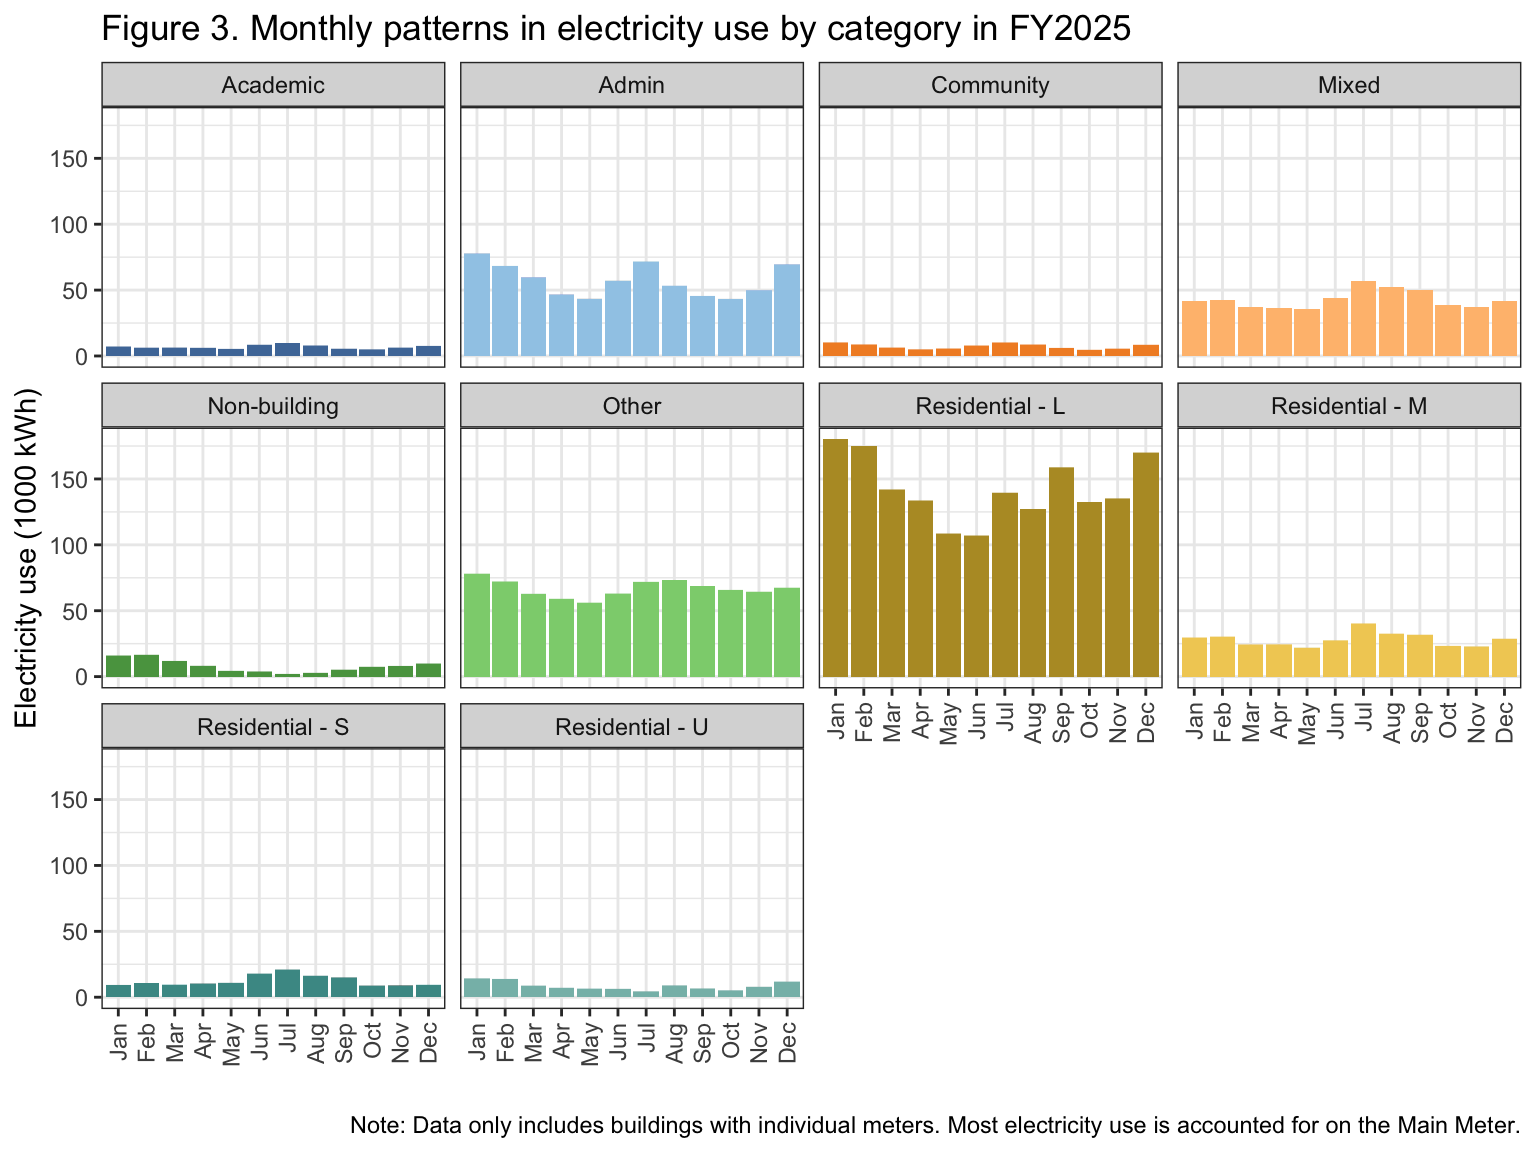
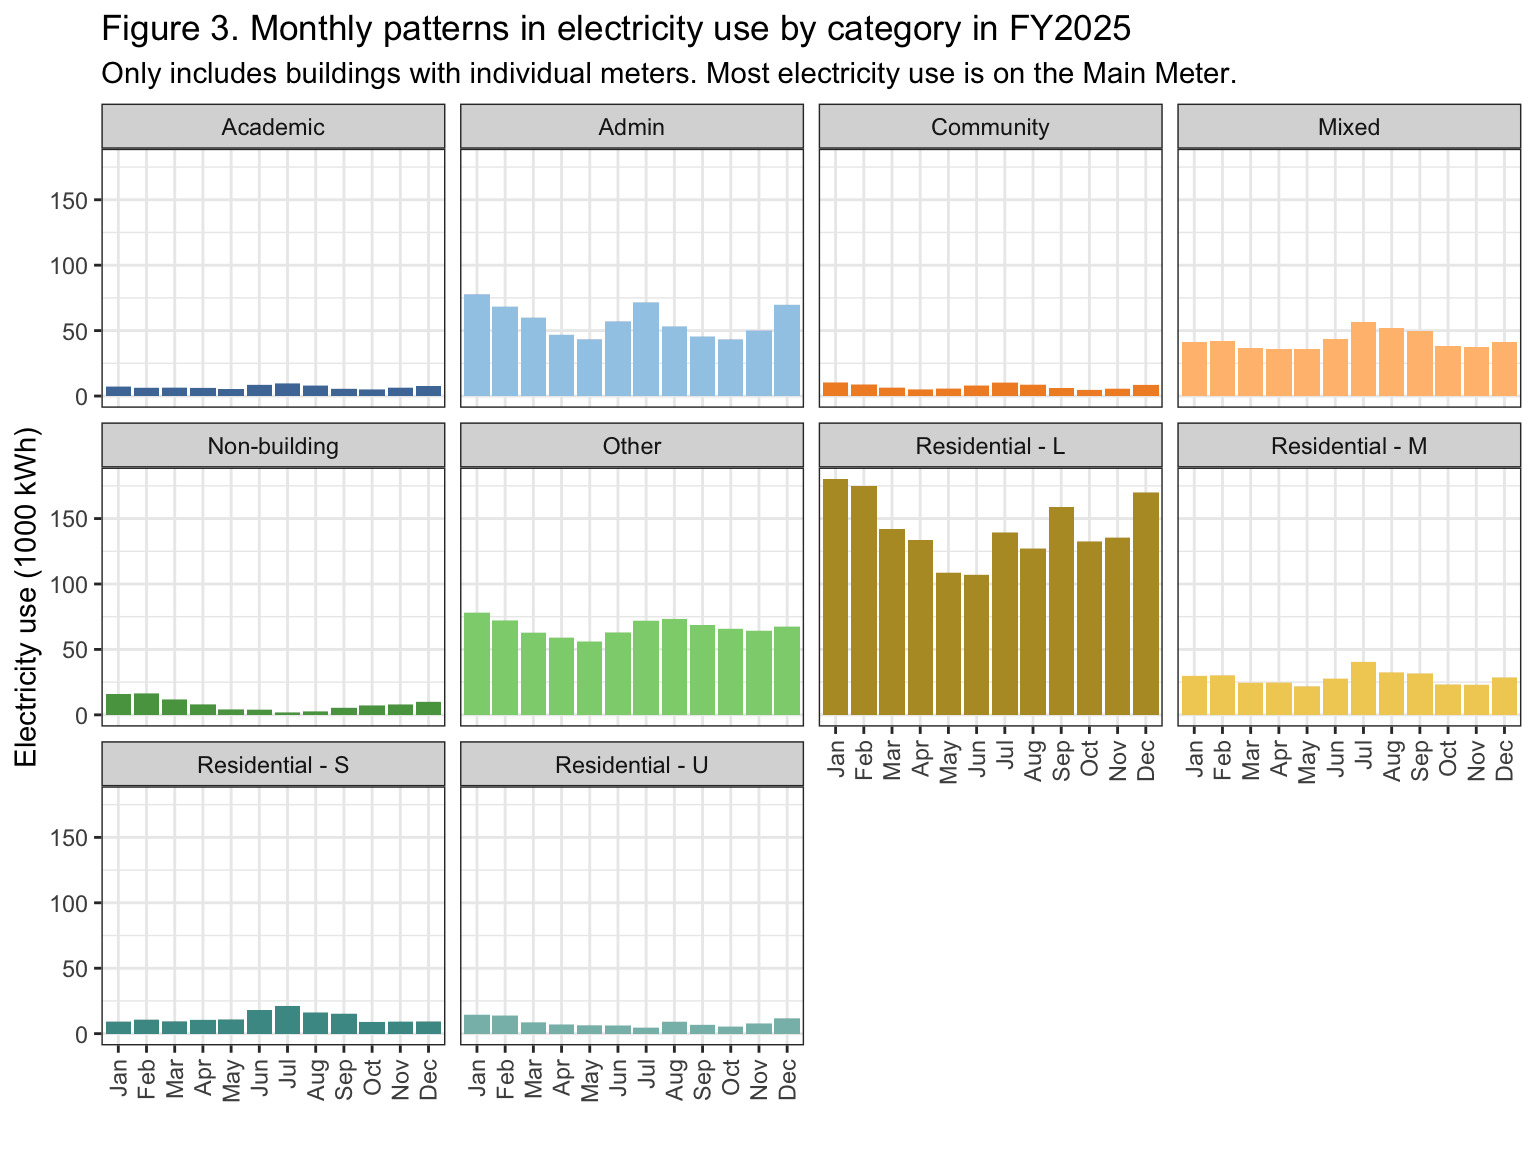
small improvements to graphs

diff --git a/docs/data_wrangling_final.html b/docs/data_wrangling_final.html
@@ -11,7 +11,7 @@
 
 <meta name="author" content="Maggie Douglas" />
 
-<meta name="date" content="2026-03-17" />
+<meta name="date" content="2026-03-18" />
 
 <title>Data wrangling for Class Project</title>
 
@@ -395,7 +395,7 @@ div.tocify {
 
 <h1 class="title toc-ignore">Data wrangling for Class Project</h1>
 <h4 class="author">Maggie Douglas</h4>
-<h4 class="date">03/17/26</h4>
+<h4 class="date">03/18/26</h4>
 
 </div>
 
@@ -424,7 +424,7 @@ aria-hidden="true"></span> </a>
 <div class="tab-content">
 <div id="summary" class="tab-pane fade in active">
 <p>
-<strong>Last updated:</strong> 2026-03-17
+<strong>Last updated:</strong> 2026-03-18
 </p>
 <p>
 <strong>Checks:</strong> <span
@@ -558,15 +558,15 @@ project makes it easier to run your code on other machines.</p>
 <div class="panel panel-default">
 <div class="panel-heading">
 <p class="panel-title">
-<a data-toggle="collapse" data-parent="#workflowr-checks" href="#strongRepositoryversionstrongahrefhttpsgithubcommaggiedouglasdickinsonpowertree012f9a199bf668fdb338eabe99a4c6d63ade705dtargetblank012f9a1a">
+<a data-toggle="collapse" data-parent="#workflowr-checks" href="#strongRepositoryversionstrongahrefhttpsgithubcommaggiedouglasdickinsonpowertreed4f7e6b74691e82da840af051b2003a7f646104dtargetblankd4f7e6ba">
 <span class="glyphicon glyphicon-ok text-success"
 aria-hidden="true"></span> <strong>Repository version:</strong>
-<a href="https://github.com/maggiedouglas/dickinson_power/tree/012f9a199bf668fdb338eabe99a4c6d63ade705d" target="_blank">012f9a1</a>
+<a href="https://github.com/maggiedouglas/dickinson_power/tree/d4f7e6b74691e82da840af051b2003a7f646104d" target="_blank">d4f7e6b</a>
 </a>
 </p>
 </div>
 <div
[2 lines of base64/hex data omitted]
 class="panel-collapse collapse">
 <div class="panel-body">
 <p>
@@ -576,7 +576,7 @@ reproducibility.
 </p>
 <p>
 The results in this page were generated with repository version
-<a href="https://github.com/maggiedouglas/dickinson_power/tree/012f9a199bf668fdb338eabe99a4c6d63ade705d" target="_blank">012f9a1</a>.
+<a href="https://github.com/maggiedouglas/dickinson_power/tree/d4f7e6b74691e82da840af051b2003a7f646104d" target="_blank">d4f7e6b</a>.
 See the <em>Past versions</em> tab to see a history of the changes made
 to the R Markdown and HTML files.
 </p>
@@ -608,11 +608,13 @@ Ignored files:
     Ignored:    output/daily_kwh.csv
     Ignored:    output/kwh_academic_2026-03-16.csv
     Ignored:    output/kwh_academic_2026-03-17.csv
+    Ignored:    output/kwh_academic_2026-03-18.csv
     Ignored:    output/kwh_annual.csv
     Ignored:    output/kwh_annual_2026-03-04.csv
     Ignored:    output/kwh_annual_2026-03-12.csv
     Ignored:    output/kwh_annual_2026-03-16.csv
     Ignored:    output/kwh_annual_2026-03-17.csv
+    Ignored:    output/kwh_annual_2026-03-18.csv
     Ignored:    output/kwh_annual_20260225.csv
     Ignored:    output/kwh_annual_20260226.csv
     Ignored:    output/kwh_daily.csv
@@ -620,18 +622,15 @@ Ignored files:
     Ignored:    output/kwh_daily_2026-03-12.csv
     Ignored:    output/kwh_daily_2026-03-16.csv
     Ignored:    output/kwh_daily_2026-03-17.csv
+    Ignored:    output/kwh_daily_2026-03-18.csv
     Ignored:    output/kwh_daily_20260225.csv
     Ignored:    output/kwh_daily_20260226.csv
     Ignored:    output/kwh_main_annual.csv
     Ignored:    output/kwh_main_daily.csv
 
-Untracked files:
-    Untracked:  keys/fy25_building_list_updated.xlsx
-
 Unstaged changes:
     Modified:   analysis/campus_summary.Rmd
     Modified:   analysis/data_wrangling_final.Rmd
-    Modified:   keys/fy25_building_list_updated.csv
 
 </code></pre>
 <p>
@@ -676,6 +675,40 @@ Message
 </tr>
 </thead>
 <tbody>
+<tr>
+<td>
+Rmd
+</td>
+<td>
+<a href="https://github.com/maggiedouglas/dickinson_power/blob/bd65297524933e7448377a79a4cd9915ca5c1aa4/analysis/data_wrangling_final.Rmd" target="_blank">bd65297</a>
+</td>
+<td>
+maggiedouglas
+</td>
+<td>
+2026-03-17
+</td>
+<td>
+small adjustments to data prep and campus summary
+</td>
+</tr>
+<tr>
+<td>
+html
+</td>
+<td>
+<a href="https://rawcdn.githack.com/maggiedouglas/dickinson_power/bd65297524933e7448377a79a4cd9915ca5c1aa4/docs/data_wrangling_final.html" target="_blank">bd65297</a>
+</td>
+<td>
+maggiedouglas
+</td>
+<td>
+2026-03-17
+</td>
+<td>
+small adjustments to data prep and campus summary
+</td>
+</tr>
 <tr>
 <td>
 Rmd
@@ -1727,6 +1760,17 @@ Date
 <tbody>
 <tr>
 <td>
+<a href="https://github.com/maggiedouglas/dickinson_power/blob/bd65297524933e7448377a79a4cd9915ca5c1aa4/docs/figure/data_wrangling_final.Rmd/graph meter-1.png" target="_blank">bd65297</a>
+</td>
+<td>
+maggiedouglas
+</td>
+<td>
+2026-03-17
+</td>
+</tr>
+<tr>
+<td>
 <a href="https://github.com/maggiedouglas/dickinson_power/blob/bfe7b73e8b29bef0d4013574a7baa3178652fb35/docs/figure/data_wrangling_final.Rmd/graph meter-1.png" target="_blank">bfe7b73</a>
 </td>
 <td>
@@ -1860,6 +1904,17 @@ Date
 <tbody>
 <tr>
 <td>
+<a href="https://github.com/maggiedouglas/dickinson_power/blob/bd65297524933e7448377a79a4cd9915ca5c1aa4/docs/figure/data_wrangling_final.Rmd/graph meter-2.png" target="_blank">bd65297</a>
+</td>
+<td>
+maggiedouglas
+</td>
+<td>
+2026-03-17
+</td>
+</tr>
+<tr>
+<td>
 <a href="https://github.com/maggiedouglas/dickinson_power/blob/bfe7b73e8b29bef0d4013574a7baa3178652fb35/docs/figure/data_wrangling_final.Rmd/graph meter-2.png" target="_blank">bfe7b73</a>
 </td>
 <td>
@@ -1924,7 +1979,7 @@ ggplot(daily_test,
   theme_bw() +
   theme(legend.position = &quot;none&quot;) +
   labs(x = &quot;&quot;, y = &quot;Electricity Intensity (kWh/sqft)&quot;, 
-       title = &quot;&quot;)</code></pre>
+       title = &quot;Figure 2. Electricity intensity by aggregate meter in FY25. &quot;)</code></pre>
 <p><img src="figure/data_wrangling_final.Rmd/box_practice-1.png" alt="" width="672" style="display: block; margin: auto;" /></p>
 <p>
 <button type="button" class="btn btn-default btn-xs btn-workflowr btn-workflowr-fig" data-toggle="collapse" data-target="#fig-box_practice-1">
@@ -1948,6 +2003,17 @@ Date
 </tr>
 </thead>
 <tbody>
+<tr>
+<td>
+<a href="https://github.com/maggiedouglas/dickinson_power/blob/bd65297524933e7448377a79a4cd9915ca5c1aa4/docs/figure/data_wrangling_final.Rmd/box_practice-1.png" target="_blank">bd65297</a>
+</td>
+<td>
+maggiedouglas
+</td>
+<td>
+2026-03-17
+</td>
+</tr>
 <tr>
 <td>
 <a href="https://github.com/maggiedouglas/dickinson_power/blob/012f9a199bf668fdb338eabe99a4c6d63ade705d/docs/figure/data_wrangling_final.Rmd/box_practice-1.png" target="_blank">012f9a1</a>

diff --git a/docs/campus_summary.html b/docs/campus_summary.html
@@ -643,6 +643,17 @@ Date
 <tbody>
 <tr>
 <td>
+<a href="https://github.com/maggiedouglas/dickinson_power/blob/d4f7e6b74691e82da840af051b2003a7f646104d/docs/figure/campus_summary.Rmd/stacked bar-1.png" target="_blank">d4f7e6b</a>
+</td>
+<td>
+maggiedouglas
+</td>
+<td>
+2026-03-18
+</td>
+</tr>
+<tr>
+<td>
 <a href="https://github.com/maggiedouglas/dickinson_power/blob/bd65297524933e7448377a79a4cd9915ca5c1aa4/docs/figure/campus_summary.Rmd/stacked bar-1.png" target="_blank">bd65297</a>
 </td>
 <td>
@@ -725,6 +736,17 @@ Date
 <tbody>
 <tr>
 <td>
+<a href="https://github.com/maggiedouglas/dickinson_power/blob/d4f7e6b74691e82da840af051b2003a7f646104d/docs/figure/campus_summary.Rmd/faceted_agg-1.png" target="_blank">d4f7e6b</a>
+</td>
+<td>
+maggiedouglas
+</td>
+<td>
+2026-03-18
+</td>
+</tr>
+<tr>
+<td>
 <a href="https://github.com/maggiedouglas/dickinson_power/blob/bd65297524933e7448377a79a4cd9915ca5c1aa4/docs/figure/campus_summary.Rmd/faceted_agg-1.png" target="_blank">bd65297</a>
 </td>
 <td>
@@ -748,7 +770,7 @@ maggiedouglas
   theme(axis.text.x = element_text(angle = 90, vjust = 0.5, hjust = 1)) +
   labs(x = &quot;&quot;, y = &quot;Electricity use (1000 kWh)&quot;, fill = &quot;&quot;,
        title = &quot;Figure 3. Monthly patterns in electricity use by category in FY2025&quot;,
-       caption = &quot;Note: Data only includes buildings with individual meters. Most electricity use is accounted for on the Main Meter.&quot;)</code></pre>
+       subtitle = &quot;Only includes buildings with individual meters. Most electricity use is on the Main Meter.&quot;)</code></pre>
 <p><img src="figure/campus_summary.Rmd/faceted-1.png" alt="" width="768" style="display: block; margin: auto;" /></p>
 <p>
 <button type="button" class="btn btn-default btn-xs btn-workflowr btn-workflowr-fig" data-toggle="collapse" data-target="#fig-faceted-1">
@@ -772,6 +794,17 @@ Date
 </tr>
 </thead>
 <tbody>
+<tr>
+<td>
+<a href="https://github.com/maggiedouglas/dickinson_power/blob/d4f7e6b74691e82da840af051b2003a7f646104d/docs/figure/campus_summary.Rmd/faceted-1.png" target="_blank">d4f7e6b</a>
+</td>
+<td>
+maggiedouglas
+</td>
+<td>
+2026-03-18
+</td>
+</tr>
 <tr>
 <td>
 <a href="https://github.com/maggiedouglas/dickinson_power/blob/bd65297524933e7448377a79a4cd9915ca5c1aa4/docs/figure/campus_summary.Rmd/faceted-1.png" target="_blank">bd65297</a>
@@ -877,6 +910,17 @@ Date
 <tbody>
 <tr>
 <td>
+<a href="https://github.com/maggiedouglas/dickinson_power/blob/d4f7e6b74691e82da840af051b2003a7f646104d/docs/figure/campus_summary.Rmd/intensity-1.png" target="_blank">d4f7e6b</a>
+</td>
+<td>
+maggiedouglas
+</td>
+<td>
+2026-03-18
+</td>
+</tr>
+<tr>
+<td>
 <a href="https://github.com/maggiedouglas/dickinson_power/blob/bd65297524933e7448377a79a4cd9915ca5c1aa4/docs/figure/campus_summary.Rmd/intensity-1.png" target="_blank">bd65297</a>
 </td>
 <td>
@@ -976,6 +1020,17 @@ Date
 </tr>
 </thead>
 <tbody>
+<tr>
+<td>
+<a href="https://github.com/maggiedouglas/dickinson_power/blob/d4f7e6b74691e82da840af051b2003a7f646104d/docs/figure/campus_summary.Rmd/intensity_acad-1.png" target="_blank">d4f7e6b</a>
+</td>
+<td>
+maggiedouglas
+</td>
+<td>
+2026-03-18
+</td>
+</tr>
 <tr>
 <td>
 <a href="https://github.com/maggiedouglas/dickinson_power/blob/bd65297524933e7448377a79a4cd9915ca5c1aa4/docs/figure/campus_summary.Rmd/intensity_acad-1.png" target="_blank">bd65297</a>
